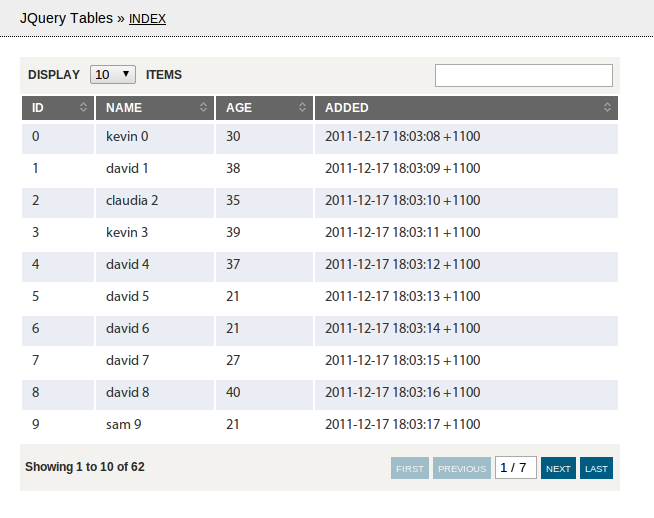
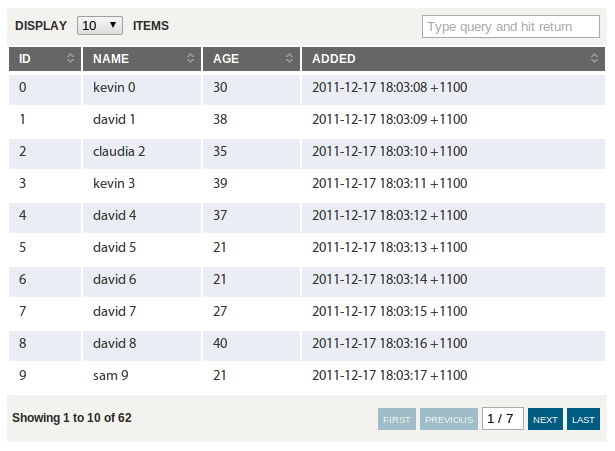
update screenshot

diff --git a/public/js/jquery.tables.js b/public/js/jquery.tables.js
@@ -84,7 +84,7 @@
         instance.redraw();
       });
 
-      var input = $('<input/>', {"name": "q"});
+      var input = $('<input/>', {"name": "q", "placeholder": "Type query and hit return"});
 
       input.keydown(function(e) {
         instance.query = input.val() == '' ? null : input.val();
